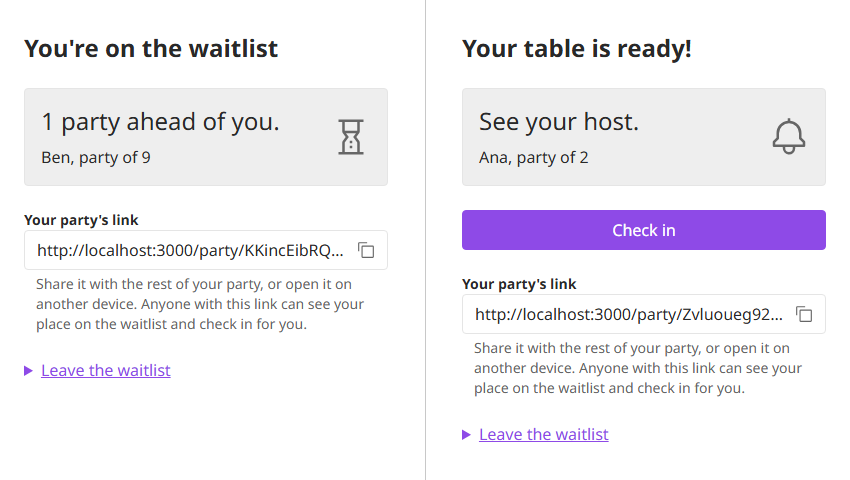
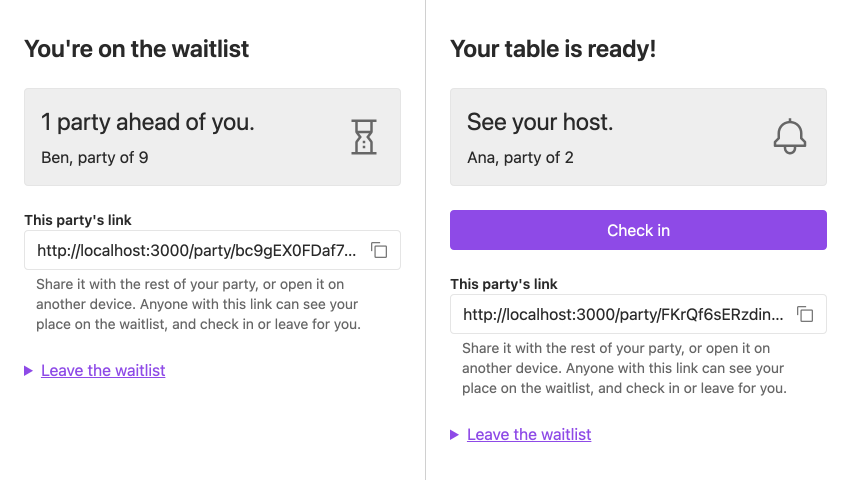
Lead the way on from someone else's party page (#34)
* feat: lead the way on from someone else's party page

Someone else's party page was a dead end. A friend sent the link who
wanted to join with their own group had nowhere to go but deleting the
address, and a browser with a party of its own had no way back to it.
Below the card, set apart by a rule, the page now offers "Joining with
a different group? Join the waitlist" to a browser with no party, and
"Go to your party" to one with a party elsewhere; each only where /
leads to what it says, and the party's own browser gets neither. Also
note that a party that joins again gets a new link, which the old link
doesn't lead to, and that the 6-hour cookie always expires before its
party is forgotten.

* perf: decide who's looking at a party's page from the cookie alone

The page looked up the browser's own party to choose between "Join the
waitlist" and "Go to your party", a second read of the waitlist. The
cookie always expires before its party is forgotten, so a cookie whose
party is gone only follows a database reset, and then the link lands
on the join form as / clears the cookie. The page now decides from the
cookie alone: one read, whoever is looking.

* fix: word the way on as two questions

"Dining with a different party?" leads into "Join the waitlist" without
saying join twice, and asks the question that tells a friend from
someone at the party's own table. "Looking for your own party?" leads
into "Go to your party" the same way.
[…]

diff --git a/src/routes/waitlistRoutes.test.ts b/src/routes/waitlistRoutes.test.ts
@@ -450,6 +450,66 @@ describe("the party's link", () => {
     expect(await partyPageHtml(app, bensCookie)).toContain("Ben, party of 2");
   });
 
+  test("offers a browser without a party the join form from a friend's party, for a different party", async () => {
+    const app = await routes();
+    const anasCookie = partyCookie(await postJoin(app, ana));
+
+    const page = await (await app.request(partyPath(anasCookie))).text();
+
+    // Outside the live card, so a swapped-in card can't take it away.
+    expect(page).toContain(
+      '</live-card><p class="other-group secondary">Dining with a different party? <a href="/">Join the waitlist</a></p>',
+    );
+  });
+
+  test("offers a browser with a party of its own the way back to it from a friend's party", async () => {
+    const app = await routes();
+    const anasCookie = partyCookie(await postJoin(app, ana));
+    const bensCookie = partyCookie(
+      await postJoin(app, { name: "Ben", email: "ben@example.com", size: "2" }),
+    );
+
+    const page = await (
+      await app.request(partyPath(anasCookie), {
+        headers: { Cookie: bensCookie },
+      })
+    ).text();
+
+    expect(page).toContain(
+      '</live-card><p class="other-group secondary">Looking for your own party? <a href="/">Go to your party</a></p>',
+    );
+    expect(page).not.toContain("Dining with a different party?");
+  });
+
+  test("decides from the cookie alone, without a second lookup, so a cookie for a forgotten party still says Go to your party", async () => {
+    // The cookie lasts 6 hours and a party is forgotten at least a day after
+    // its visit, so this only happens after a database reset; / then clears
+    // the cookie and shows the join form.
+    const app = await routes();
+    const anasCookie = partyCookie(await postJoin(app, ana));
+
+    const page = await (
+      await app.request(partyPath(anasCookie), {
+        headers: { Cookie: "partyToken=forgotten" },
+      })
+    ).text();
+
+    expect(page).toContain('<a href="/">Go to your party</a>');
+  });
+
+  test("shows the party's own browser nothing below its card", async () => {
+    const app = await routes();
+    const anasCookie = partyCookie(await postJoin(app, ana));
+
+    const page = await (
+      await app.request(partyPath(anasCookie), {
+        headers: { Cookie: anasCookie },
+      })
+    ).text();
+
+    expect(page).not.toContain('class="other-group');
+  });
+
   test("opens a party's link that ends in a slash, as a messaging app may add one", async () => {
     const app = await routes();
     const anasCookie = partyCookie(await postJoin(app, ana));
@@ -505,7 +565,7 @@ describe("the party's link", () => {
     expect(field).toContain(`value="http://localhost/party/${anasToken}"`);
     expect(field).toContain('aria-describedby="party-link-hint"');
     expect(card).toContain(
-      '<label for="party-link">Your party&#x27;s link</label>',
+      '<label for="party-link">This party&#x27;s link</label>',
     );
     expect(card).toContain(
       '<p id="party-link-hint" class="secondary">Share it with the rest of your party, or open it on another device. Anyone with this link can see your place on the waitlist, and check in or leave for you.</p>',

diff --git a/src/views/waitlistPage.tsx b/src/views/waitlistPage.tsx
@@ -39,6 +39,10 @@ type PartyPageProps = {
   party: Party;
   state: PartyState;
   origin: string;
+  // Whose browser is looking, from its cookie: this party's own, one with a
+  // party of its own elsewhere (where / leads to that party), or one with
+  // none (where / shows the join form).
+  viewer: "this-party" | "other-party" | "no-party";
 };
 type JoinPageProps = {
   party?: undefined;
@@ -73,6 +77,23 @@ function WaitlistPage(props: WaitlistPageProps) {
             origin={props.origin}
           />
         </LiveCard>
+        {/* Someone else's party is otherwise a dead end: a friend sent the
+            link gets the join form, worded so the party's own group doesn't
+            take it as theirs and join twice; a browser with a party of its
+            own gets the way back to it. Outside the live card, so a
+            swapped-in card keeps it. */}
+        {props.viewer === "no-party" && (
+          <p className="other-group secondary">
+            {`${messages.diningWithDifferentParty} `}
+            <a href="/">{messages.joinTheWaitlist}</a>
+          </p>
+        )}
+        {props.viewer === "other-party" && (
+          <p className="other-group secondary">
+            {`${messages.lookingForYourOwnParty} `}
+            <a href="/">{messages.goToYourParty}</a>
+          </p>
+        )}
       </Layout>
     );
   }

diff --git a/src/routes/waitlistHandlers.ts b/src/routes/waitlistHandlers.ts
@@ -97,7 +97,19 @@ export function waitlistHandlers(waitlist: WaitlistService) {
       return c.html(unknownPartyPage(Boolean(ownParty)));
     }
     const { party, state } = found;
-    return c.html(partyPage({ party, state, origin: siteOrigin(c) }));
+    // Whose browser this is decides the way out offered below the card:
+    // the join form for a browser with no party, the way back to its own
+    // party for a browser with another. From the cookie alone, with no
+    // second lookup: the cookie lasts 6 hours and a party is forgotten at
+    // least a day after its visit, so a cookie whose party is gone only
+    // follows a database reset, and / then clears it and shows the form.
+    const ownPartyToken = getCookie(c, partyTokenCookie);
+    const viewer = !ownPartyToken
+      ? "no-party"
+      : ownPartyToken === party.token
+        ? "this-party"
+        : "other-party";
+    return c.html(partyPage({ party, state, origin: siteOrigin(c), viewer }));
   }
 
   // The party's card on its own, which the card's live updates fetch. The

diff --git a/src/views/messages.ts b/src/views/messages.ts
@@ -39,7 +39,7 @@ export const messages = {
   leaveWarning:
     "Your place can't be restored. If you join again, you'll go to the back of the waitlist.",
   leaveButton: "Yes, leave",
-  partyLinkLabel: "Your party's link",
+  partyLinkLabel: "This party's link",
   partyLinkHint:
     "Share it with the rest of your party, or open it on another device. Anyone with this link can see your place on the waitlist, and check in or leave for you.",
   copyLink: "Copy link",
@@ -51,6 +51,8 @@ export const messages = {
     "The visit may be over, or the link may be incomplete. If someone sent it to you, ask them to send it again.",
   goToYourParty: "Go to your party",
   joinTheWaitlist: "Join the waitlist",
+  diningWithDifferentParty: "Dining with a different party?",
+  lookingForYourOwnParty: "Looking for your own party?",
 } as const;
 
 /**

diff --git a/e2e/liveCard.spec.ts b/e2e/liveCard.spec.ts
@@ -88,7 +88,7 @@ test("shows the Check-in button the moment the table is ready, without a reload"
   // <copy-link> island sets itself up when it's added to the page.
   await otherPage.getByRole("button", { name: "Copy link" }).click();
   await expect(otherPage.getByRole("status")).toHaveText("Link copied");
-  const link = await otherPage.getByLabel("Your party's link").inputValue();
+  const link = await otherPage.getByLabel("This party's link").inputValue();
   expect(await otherPage.evaluate(() => navigator.clipboard.readText())).toBe(
     link,
   );

diff --git a/e2e/copyLink.spec.ts b/e2e/copyLink.spec.ts
@@ -20,7 +20,7 @@ test("copies the party's link with one tap", async ({ page }) => {
   await page.getByRole("button", { name: "Copy link" }).click();
 
   await expect(page.getByRole("status")).toHaveText("Link copied");
-  const link = await page.getByLabel("Your party's link").inputValue();
+  const link = await page.getByLabel("This party's link").inputValue();
   expect(link).toMatch(/\/party\/[\w-]+$/);
   expect(await page.evaluate(() => navigator.clipboard.readText())).toBe(link);
 });

diff --git a/browser/page.css b/browser/page.css
@@ -43,6 +43,13 @@ button {
 .secondary {
   color: var(--text-subtle);
 }
+/* Below the card and set apart by a rule: it's for a browser that isn't the
+   party's own, not one of the party's controls. */
+.other-group {
+  margin-top: var(--spacing-l7);
+  padding-top: var(--spacing-l5);
+  border-top: 1px solid var(--border);
+}
 /* Fields at 16px or more, so phones don't zoom in when one is tapped:
    TableKit's small fields are 14px. */
 input,

diff --git a/e2e/waitlist.spec.ts b/e2e/waitlist.spec.ts
@@ -71,7 +71,7 @@ test("views the party from another browser session", async ({
     email: uniqueEmail("bea"),
     size: "3",
   });
-  const link = await page.getByLabel("Your party's link").inputValue();
+  const link = await page.getByLabel("This party's link").inputValue();
 
   // A second browser shares no cookies with the first, like another phone.
   // It takes the project's settings, so it's the same phone, JavaScript off.

diff --git a/DECISIONS.md b/DECISIONS.md
@@ -49,7 +49,7 @@
 ### Forgetting finished parties
 - Every save goes through one function in the service that drops parties whose service ended, or that left, at least 24 hours ago (`pruneFinished`, a pure rule in the domain), inside the same versioned write. There's no background job: only writes add parties, so pruning on writes is enough to keep the document the size of one day.
 - Such a party is outside every rule: it isn't in the queue, holds no seats and blocks no email or join key. So forgetting it changes nobody's place or state (a unit test checks this), and the version check and the other rules didn't change.
-- A day, not a few minutes: tonight's party links and "Join the waitlist again" keep working. After that, an old link shows "We couldn't find this party" (see Finding your party again), a card left open stops updating, and "Join the waitlist again" opens an empty form.
+- A day, not a few minutes: tonight's party links and "Join the waitlist again" keep working. After that, an old link shows "We couldn't find this party" (see Finding your party again), a card left open stops updating, and "Join the waitlist again" opens an empty form. The browser's cookie lasts 6 hours from joining and a party is forgotten at least a day after its visit ends, so the cookie always expires first: a cookie names a forgotten party only if the database was reset, and `/` then clears it.
 - Deleted, not moved to a history collection: nothing in the app reads history, and keeping it would mean two writes per prune and a crash case to handle. If the restaurant wants reporting, that's when to add a `parties_history` collection (insert the copy first, then remove it through the version check, so a crash leaves at worst a duplicate history record, never a lost party).
 
 ### What I'd do in production
@@ -127,6 +127,7 @@ The next step for read cost, before either of these: cache the waitlist in memor
 - One active party per browser: a stale join form (back button, old tab) goes back to the party's page instead of changing details or adding a second place. Another group joins from another phone.
 - Opening a link used to make the party the browser's own when it had none, so the diner's other phone found it again at `/`. But then a friend's phone that opened the link before joining was sent back to the friend's card by every way to the join form, and couldn't join for its own group. Fixing that while keeping the adoption took a second cookie (how the browser got the party), a way out ("Not with this party? Join on your own") and a rule for the rejoin form that knew both. Not adopting at all needs none of that: the other phone keeps the link (open tab, history, bookmark), which is how a link works anyway.
 - A link that matches no party (a visit that's over, or a link a messaging app cut off) gets a page that says so rather than a redirect to `/`. The redirect silently showed the browser's own party instead of the one the link was for, which a tester found confusing, and showed a friend with a cut-off link the join form, so the same group could end up in line twice. The page's one link goes to `/` either way, labelled by what's there: "Go to your party" or "Join the waitlist". Check in and Leave always go back to the party's page, so an unknown party lands on the same page. Its status is 200, not 404: messaging apps (Messages, WhatsApp, Slack) preview a link only when its page loads, so with a 404 a broken link showed as a bare address while every other link showed its title. With 200 the sender sees "We couldn't find this party" in their own message before sending it. The price is a "soft 404" (the status says OK while the page says not found), which only matters to search engines and link checkers, and party links are unguessable and never indexed.
+- Someone else's party page used to be a dead end. Below the card, set apart by a rule, it now offers the browser looking at it a way on: "Dining with a different party? Join the waitlist" for a browser with no party of its own (a friend sent the link), and "Looking for your own party? Go to your party" for a browser with a party elsewhere. Both go to `/`, and each is shown only where `/` leads to what it says; the party's own browser gets neither. The page decides from the cookie alone, with no second read of the waitlist: since the cookie always expires before its party is forgotten, a cookie whose party is gone only follows a database reset, and then "Go to your party" lands on the join form, as `/` clears the cookie. The join link is worded so the party's own group doesn't take it as theirs and join twice. It makes joining from elsewhere one tap easier for someone who already holds the address, but the join form was always public; what limits a party that joins from afar is check-in ("See your host"), and the no-show limit (see Known limits).
 - Pages are sent `Cache-Control: no-store`, so the back button asks the server for the current state. POST answers (a refused join) stay cacheable, so going back doesn't trigger "Confirm Form Resubmission".
 - The card shows the full link ready to copy. The Copy button (the `<copy-link>` island) is hidden without JavaScript, and it falls back to the older copy method on a phone reaching the app over plain HTTP. The phone's Share sheet needs HTTPS, so it's future work.
 - `/party/<token>` is singular because it reads as "this party" in a shared message.
@@ -148,6 +149,7 @@ The next step for read cost, before either of these: cache the waitlist in memor
 ## Joining again
 - The finished card has a quiet text link, not a button, so nobody rejoins the same evening by accident.
 - `/?rejoin=<token>`: the home page's join form, filled in with the party's name and email (size asked again), only for the browser that joined as the party (its cookie names it). Any other browser with the link gets the form empty: a friend's phone would otherwise join as the friend, a friend with a party of their own would see a form that only sends them back to it, and a private window would show the party's email to anyone holding the link. The price: a diner whose browser lost the cookie (another browser, or after its 6 hours) types their name and email again. It's a query option on `/`, not a page of its own, so one handler renders the join form; it changes nothing until the diner joins, so a reload or a link preview is harmless.
+- Joining again creates a new party with a new link, and nothing connects it to the old one: friends holding the old link see the old visit's last card ("You've left the waitlist", "Thanks for dining") until they're sent the new one. Pointing the old card at the new party, matched by email, would quietly give anyone with the old link control of the new booking, including someone the group no longer shares with: the old link was the key to one visit. The better fix is for joining again to keep the party's link, but that changes the join rule, the double-tap key and pruning, so it's future work.
 
 ## Double taps
 - The join form carries a hidden key, new for each fresh form and kept when the form comes back with errors. A submission whose key matches an active party returns that party (same cookie, same card) instead of the duplicate-email notice.

diff --git a/README.md b/README.md
@@ -26,7 +26,7 @@ The restaurant has 10 seats, and a party is served for 3 seconds per person. Use
 2. **Browser B:** join as a party of **9**. A holds 2 seats and 2 + 9 > 10, so B waits: "1 party ahead of you."
 3. **A:** tap **Check in**. A is seated for 6 seconds ("Enjoy your meal."), then the card turns to "Thanks for dining" on its own. Meanwhile B, without reloading, shows "You're next. Stay close."
 4. **B**, still without reloading: the moment A's meal ends, B's card turns to "Your table is ready!" with the Check-in button, and the tab title changes.
-5. Copy **B's link** (the address bar, or "Your party's link") into browser A: A now shows B's card, and tapping Check in there checks in B. Anyone with the link can act for the party. Opening a link only shows a party: only joining makes it the browser's own, the one `/` leads to.
+5. Copy **B's link** (the address bar, or "This party's link") into browser A: A now shows B's card, and tapping Check in there checks in B. Anyone with the link can act for the party. Opening a link only shows a party: only joining makes it the browser's own, the one `/` leads to.
 6. On a finished or left card, "Join the waitlist again" opens the form with the name and email filled in; the party goes to the back of the line. Only the browser that joined as the party gets it filled in; any other, like A on B's card, gets it empty.
 
 Try the edges too: join twice with the same email, double-tap Join, leave the waitlist, or turn JavaScript off (every screen still works; the card updates on reload instead).
@@ -165,6 +165,7 @@ The e2e tests start their own copy of the app and stop it when they finish, the 
 - **No alerts on a locked phone.** The card updates while the page is open and refreshes when the phone is unlocked; nothing reaches a locked phone. Next: an email or text when the table is ready.
 - **No history is kept.** A party is deleted a day after it finishes or leaves, so there's nothing to report on. Next, if the restaurant wants reports: copy finished parties to a history collection before forgetting them (see DECISIONS.md).
 - **The link is the key to the party.** Anyone with it can see the party, check in and leave, which is how a group shares one; it shows up in browser history. Next: email the link instead of relying on people keeping it private.
+- **Joining again makes a new link.** A party that left or finished and joins again is a new party with a new link; anyone holding the old link still sees the old visit's last card, not the new place in line. The new card shows its link to share. Next: joining again could keep the party's link, so everyone already holding it follows the group back into line.
 - **One app server is assumed** (one clock, one writer); several restaurants would each get their own document.
 
 ## How I worked
